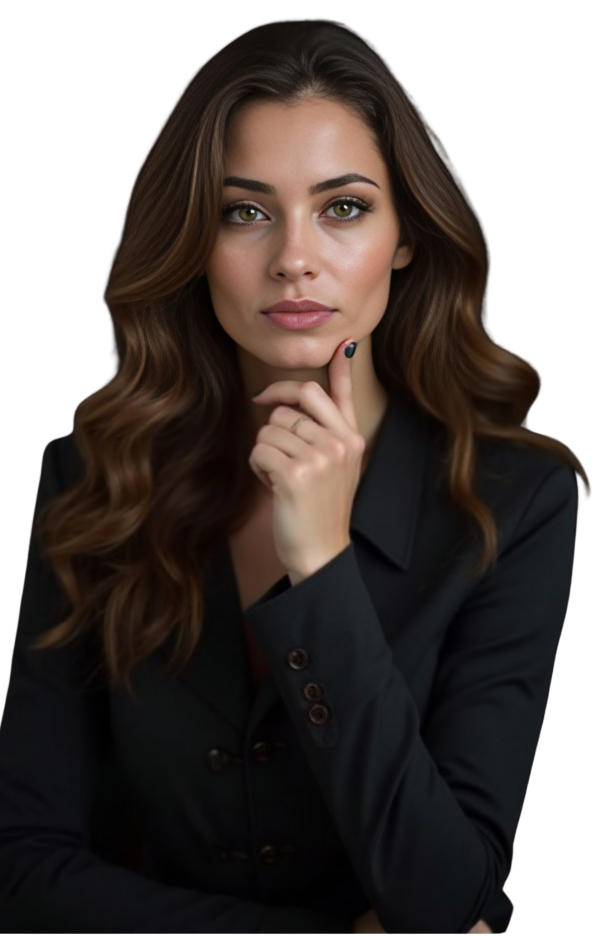
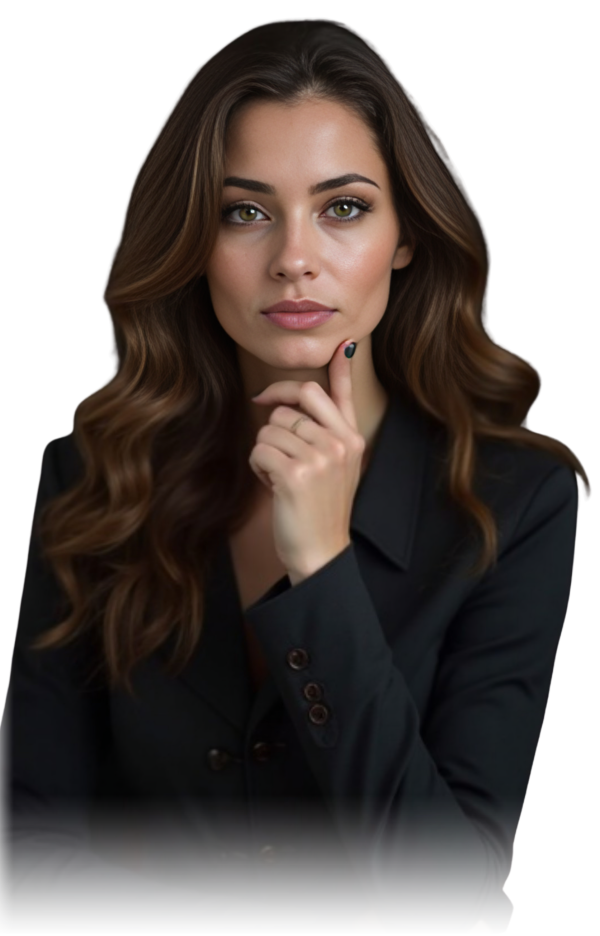
hero

Changed region(s): [[0.0, 0.7436, 0.87, 1.0]]

diff --git a/index.html b/index.html
@@ -47,12 +47,14 @@
                 src="img/logo2.png"
                 width="76"
                 alt="Logo X ao Cubo"
+                loading="lazy"
               />
               <img
                 src="img/logo2-black.png"
                 width="76"
                 alt="Logo X ao Cubo"
                 class="logo-black hidden"
+                loading="lazy"
               />
             </a>
           </div>
@@ -140,7 +142,7 @@
         <div class="js-scroll js-fade mx-auto text-center lg:mx-0 lg:text-left">
           <header>
             <h1
-              class="mx-auto max-w-[40rem] font-poppins text-3xl font-extrabold text-white sm:text-5xl lg:text-4xl xl:text-5xl sm:leading-tight"
+              class="mx-auto max-w-[40rem] font-poppins text-3xl font-extrabold text-white sm:text-5xl sm:leading-tight lg:text-4xl xl:text-5xl"
             >
               <strong class="block font-extrabold text-tertiary sm:block">
                 Marketing e Vendas
@@ -169,15 +171,14 @@
           </div>
         </div>
 
-        <div class="hidden lg:flex overflow-hidden h-full justify-center">
+        <div class="hidden h-full justify-center overflow-hidden lg:flex">
           <img
-            src="/src/img/model112.png"
+            src="./img/model222.png"
             alt="Business marketing illustration"
-            class="max-h-full w-auto object-contain js-scroll js-fade"
+            class="js-scroll js-fade max-h-full w-auto object-contain"
             loading="lazy"
           />
         </div>
-        
       </div>
     </section>
 
@@ -452,6 +453,7 @@
                     src="https://cdn.tailgrids.com/2.0/image/marketing/images/about/about-01/image-1.jpg"
                     alt=""
                     class="w-full rounded-2xl"
+                    loading="lazy"
                   />
                 </div>
                 <div class="py-3 sm:py-4">
@@ -459,6 +461,7 @@
                     src="https://cdn.tailgrids.com/2.0/image/marketing/images/about/about-01/image-2.jpg"
                     alt=""
                     class="w-full rounded-2xl"
+                    loading="lazy"
                   />
                 </div>
               </div>
@@ -468,6 +471,7 @@
                     src="https://cdn.tailgrids.com/2.0/image/marketing/images/about/about-01/image-3.jpg"
                     alt=""
                     class="w-full rounded-2xl"
+                    loading="lazy"
                   />
                   <span class="absolute -bottom-7 -right-7 z-[-1]">
                     <svg
@@ -1145,6 +1149,7 @@
         alt=""
         src="./img/meet.jpg"
         class="js-scroll js-fade h-full w-full object-cover sm:h-[calc(100%_-_2rem)] sm:self-end sm:rounded-ss-[30px] md:h-[calc(100%_-_4rem)] md:rounded-ss-[60px]"
+        loading="lazy"
       />
     </section>
     <!-- CTA Section End -->
@@ -1347,6 +1352,7 @@
                     alt=""
                     src="https://images.unsplash.com/photo-1595152772835-219674b2a8a6?ixlib=rb-1.2.1&ixid=MnwxMjA3fDB8MHxwaG90by1wYWdlfHx8fGVufDB8fHx8&auto=format&fit=crop&w=1180&q=80"
                     class="size-14 rounded-full object-cover"
+                    loading="lazy"
                   />
 
                   <div>
@@ -1429,6 +1435,7 @@
                     alt=""
                     src="https://images.unsplash.com/photo-1595152772835-219674b2a8a6?ixlib=rb-1.2.1&ixid=MnwxMjA3fDB8MHxwaG90by1wYWdlfHx8fGVufDB8fHx8&auto=format&fit=crop&w=1180&q=80"
                     class="size-14 rounded-full object-cover"
+                    loading="lazy"
                   />
 
                   <div>
@@ -1509,6 +1516,7 @@
                     alt=""
                     src="https://images.unsplash.com/photo-1595152772835-219674b2a8a6?ixlib=rb-1.2.1&ixid=MnwxMjA3fDB8MHxwaG90by1wYWdlfHx8fGVufDB8fHx8&auto=format&fit=crop&w=1180&q=80"
                     class="size-14 rounded-full object-cover"
+                    loading="lazy"
                   />
 
                   <div>
@@ -1589,6 +1597,7 @@
                     alt=""
                     src="https://images.unsplash.com/photo-1595152772835-219674b2a8a6?ixlib=rb-1.2.1&ixid=MnwxMjA3fDB8MHxwaG90by1wYWdlfHx8fGVufDB8fHx8&auto=format&fit=crop&w=1180&q=80"
                     class="size-14 rounded-full object-cover"
+                    loading="lazy"
                   />
 
                   <div>
@@ -1841,7 +1850,7 @@
           </div>
 
           <div class="flex h-full items-center justify-center lg:justify-end">
-            <img src="./img/logo.png" alt="" width="80" />
+            <img src="./img/logo.png" alt="" width="80" loading="lazy" />
           </div>
         </div>
 
